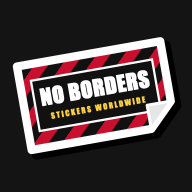
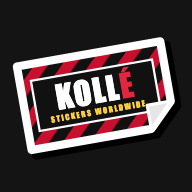
Nouveau nom : Kollé (titre, icône, manifest, README)

Changed region(s): [[0.1875, 0.3438, 0.7812, 0.6875]]

diff --git a/index.html b/index.html
@@ -7,8 +7,8 @@
 <meta name="apple-mobile-web-app-capable" content="yes">
 <meta name="mobile-web-app-capable" content="yes">
 <meta name="apple-mobile-web-app-status-bar-style" content="black">
-<meta name="apple-mobile-web-app-title" content="No Borders">
-<title>No Borders</title>
+<meta name="apple-mobile-web-app-title" content="Kollé">
+<title>Kollé</title>
 <link rel="manifest" href="manifest.webmanifest">
 <link rel="icon" href="icon.svg" type="image/svg+xml">
 <link rel="apple-touch-icon" href="icon-192.png">
@@ -217,7 +217,7 @@
 </head>
 <body>
 <header>
-  <h1>NO <span>BORDERS</span></h1>
+  <h1>KOLL<span>É</span></h1>
   <div id="stats"></div>
 </header>
 
@@ -1358,7 +1358,7 @@ async function exportBackup() {
   const out = [];
   const pack = async o => ({ ...o, photo: o.photo && await blobToDataURL(o.photo), thumb: o.thumb && await blobToDataURL(o.thumb) });
   for (const s of stickers) out.push({ ...(await pack(s)), history: await Promise.all(hist(s).map(pack)) });
-  const name = `no-borders-sauvegarde-${new Date().toISOString().slice(0, 10)}.json`;
+  const name = `kolle-sauvegarde-${new Date().toISOString().slice(0, 10)}.json`;
   const blob = new Blob([JSON.stringify({ app: "mes-stickers", version: 1, exportedAt: new Date().toISOString(), home, stickers: out })], { type: "application/json" });
   const file = new File([blob], name, { type: "application/json" });
   if (navigator.canShare?.({ files: [file] })) {

diff --git a/sw.js b/sw.js
@@ -1,5 +1,5 @@
 // Service worker : garde l'app disponible hors ligne (les photos, elles, sont dans IndexedDB).
-const CACHE = "mes-stickers-v14";
+const CACHE = "mes-stickers-v15";
 const SHELL = [
   "./", "./index.html", "./manifest.webmanifest", "./icon.svg", "./icon-192.png", "./icon-512.png", "./countries.geojson",
   "https://cdnjs.cloudflare.com/ajax/libs/maplibre-gl/5.24.0/maplibre-gl.min.css",

diff --git a/README.md b/README.md
@@ -1,4 +1,4 @@
-# 🚫🧱 No Borders
+# Kollé
 
 Stickers worldwide. Petite app perso et open source pour garder la trace de tous les stickers que je colle dans le monde.
 
